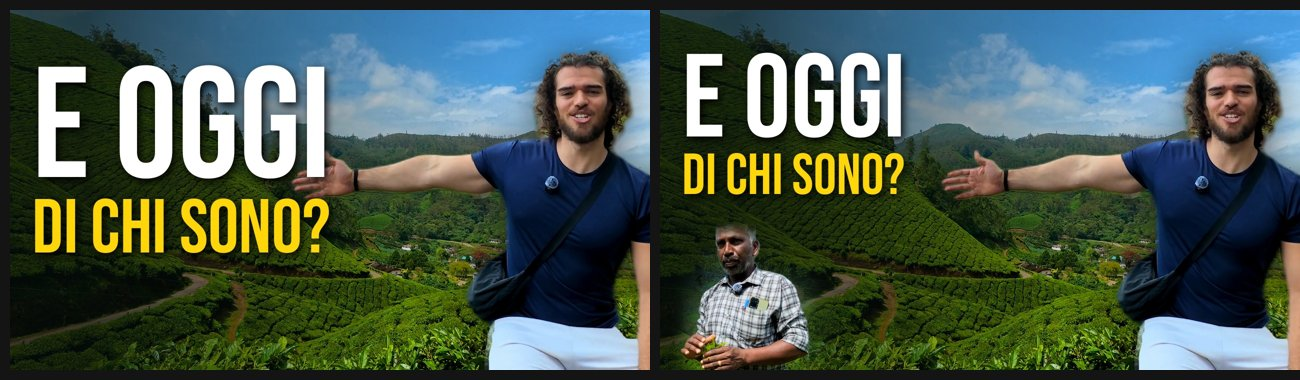
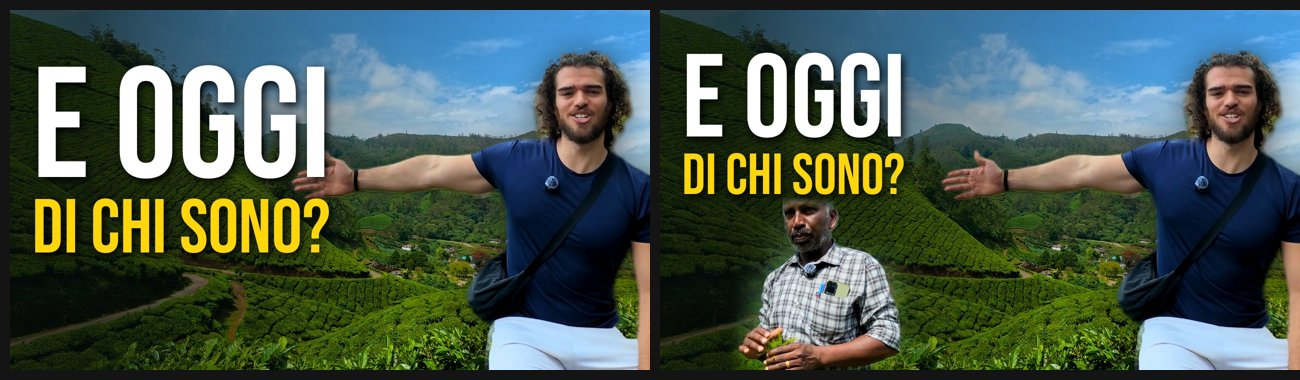
Copy: te, Sadish più grande e più centrale nella miniatura
Claude-Session: https://claude.ai/code/session_01Htfbh2yWc665ptbLq1HQGA

Changed region(s): [[0.5231, 0.5211, 0.7077, 0.9842]]

diff --git a/copioni/te_miniature/thumb_te.py b/copioni/te_miniature/thumb_te.py
@@ -58,7 +58,7 @@ def comp(out,bgframe,cx,person,h,px,dark=0.75,mirror=False,target=600,sadish=Non
     text(base,[("E OGGI",WHITE,8),("DI CHI SONO?",YEL,0)],44,40 if sadish else 50,target)
     base.convert('RGB').save(out,quality=92)
 comp('copioni/te_miniature/A1_indica.jpg','f_27.png',0.5,'clean_1.5.png',640,560,mirror=True)
-comp('copioni/te_miniature/A1_sadish.jpg','f_27.png',0.5,'clean_1.5.png',640,560,mirror=True,target=450,sadish=(380,(1450,120,2950,1490),20,425))
+comp('copioni/te_miniature/A1_sadish.jpg','f_27.png',0.5,'clean_1.5.png',640,560,mirror=True,target=450,sadish=(480,(1450,180,2950,1490),130,372))
 comp('copioni/te_miniature/A2_braccia.jpg','f_27.png',0.5,'clean_25.png',660,590,target=520)
 ims=[Image.open(f'copioni/te_miniature/{n}.jpg').resize((640,360)) for n in ('A1_indica','A1_sadish')]
 G=Image.new('RGB',(1300,380),(20,20,20))
